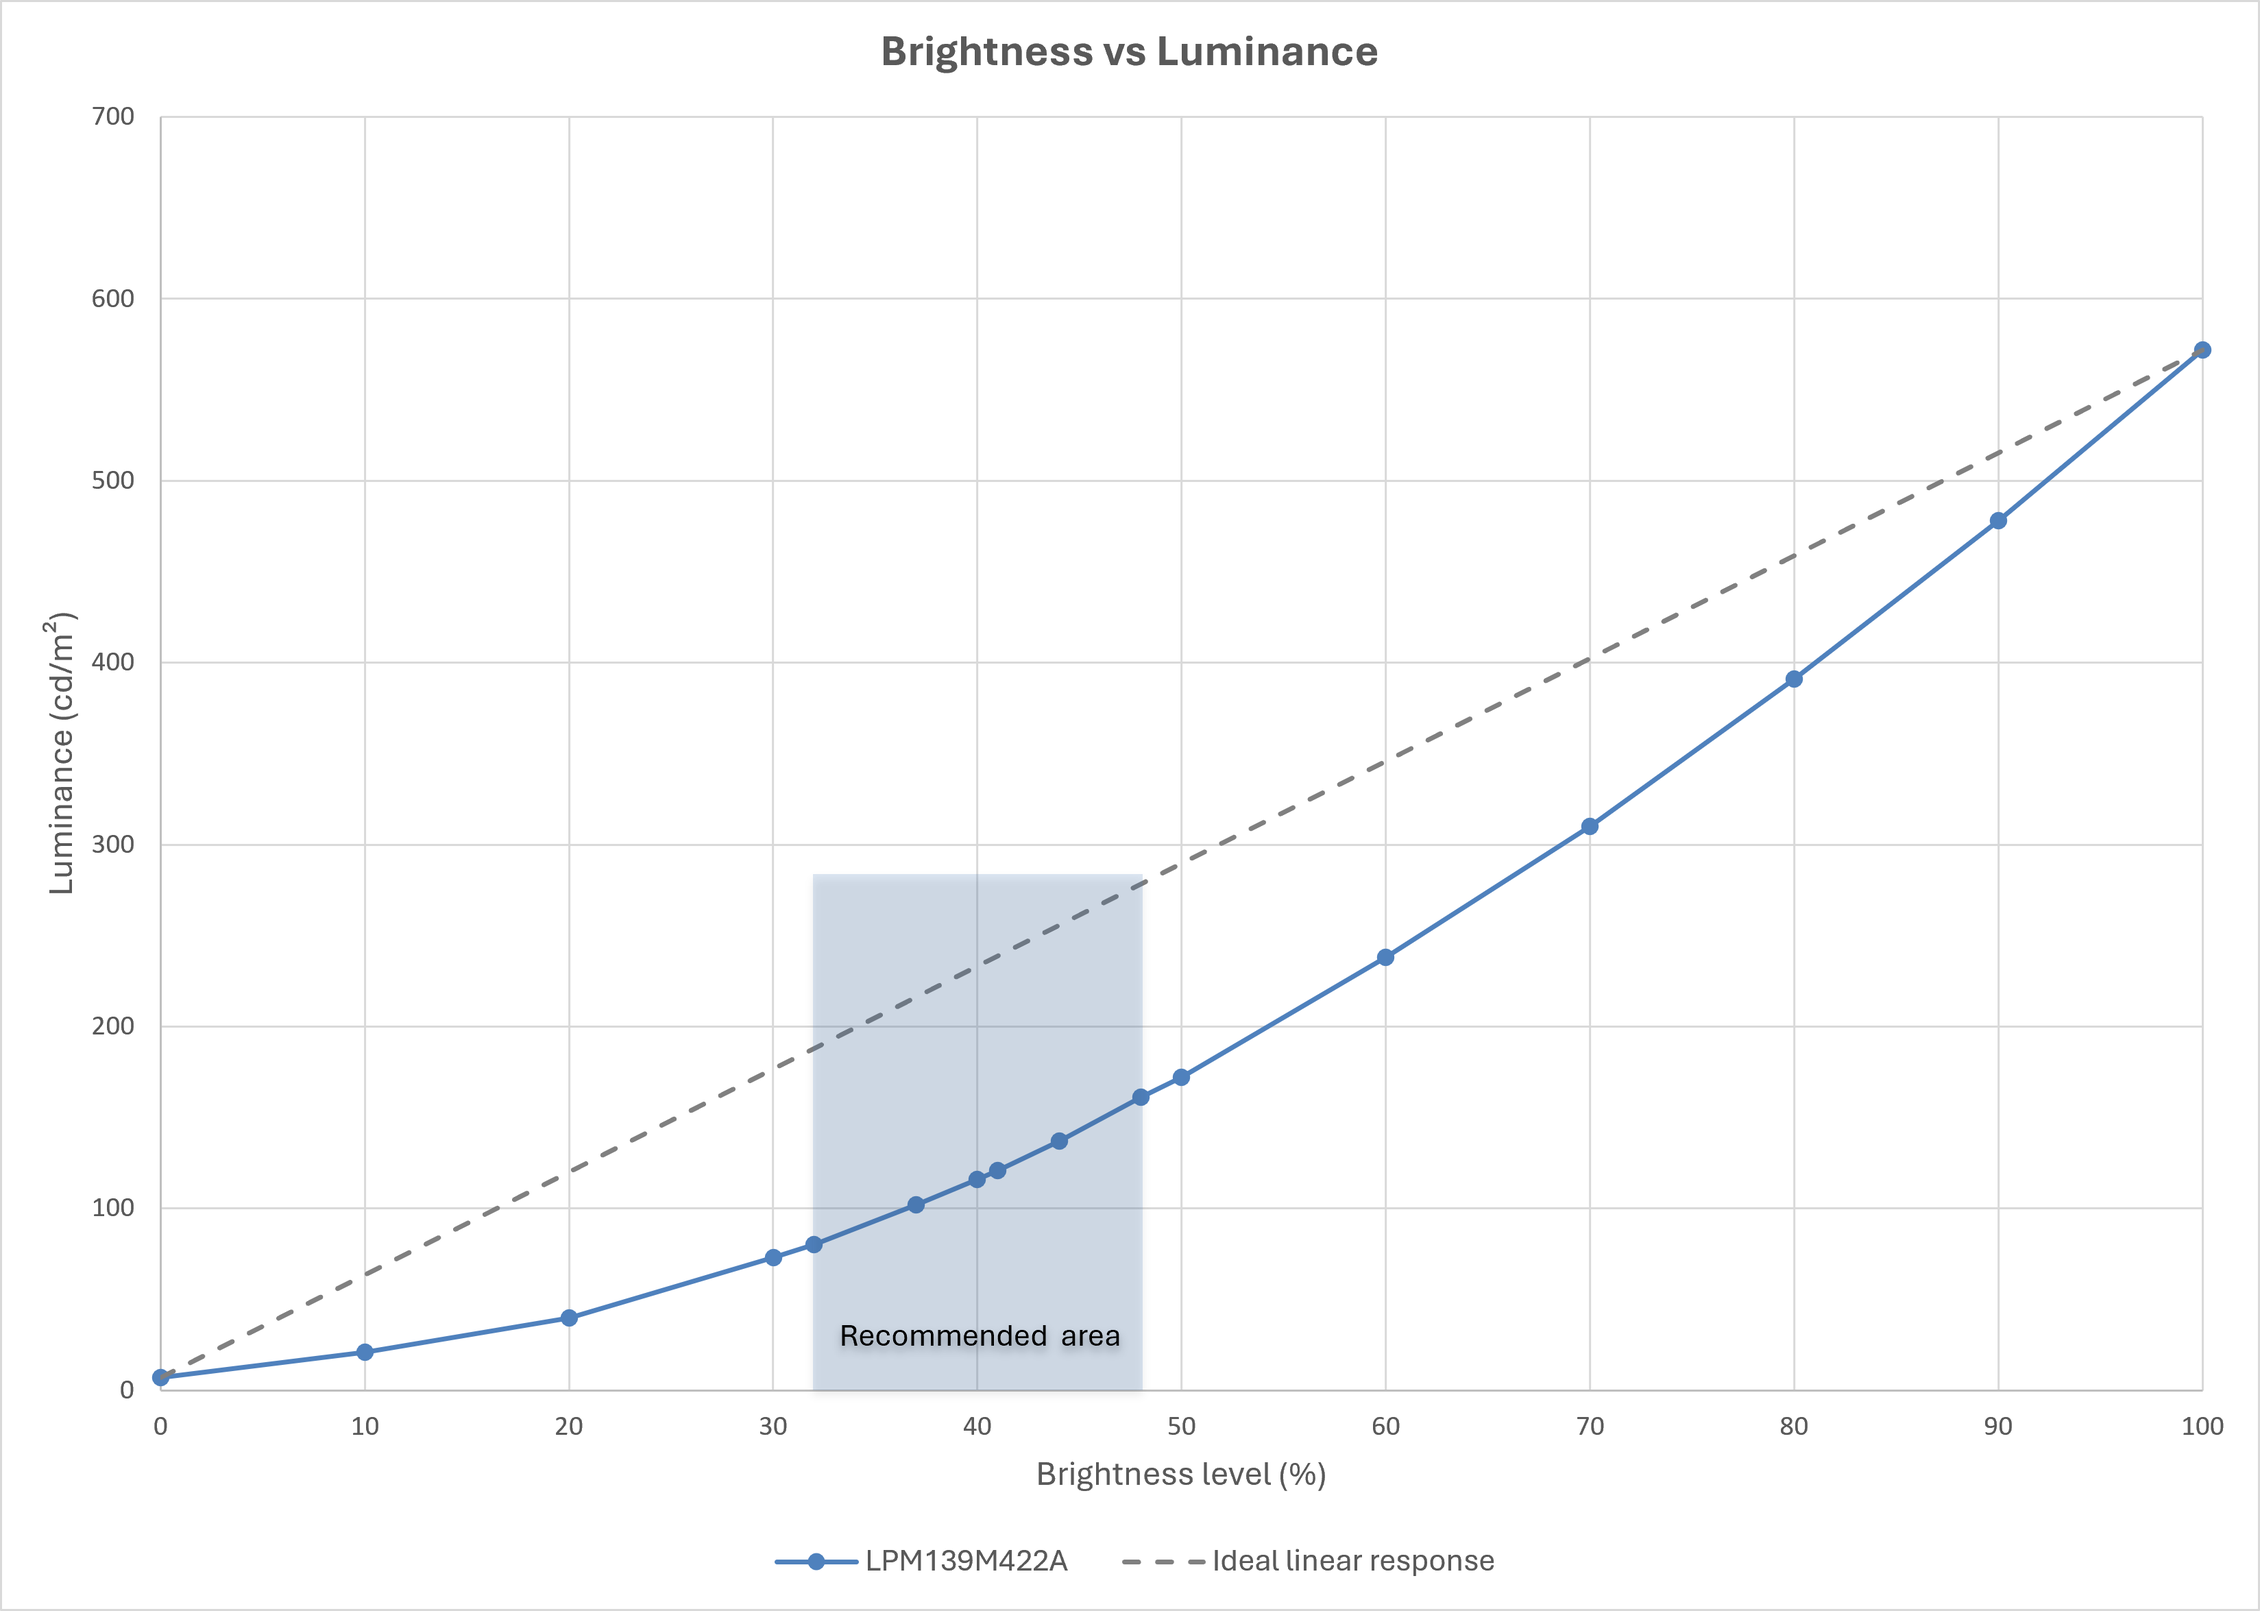
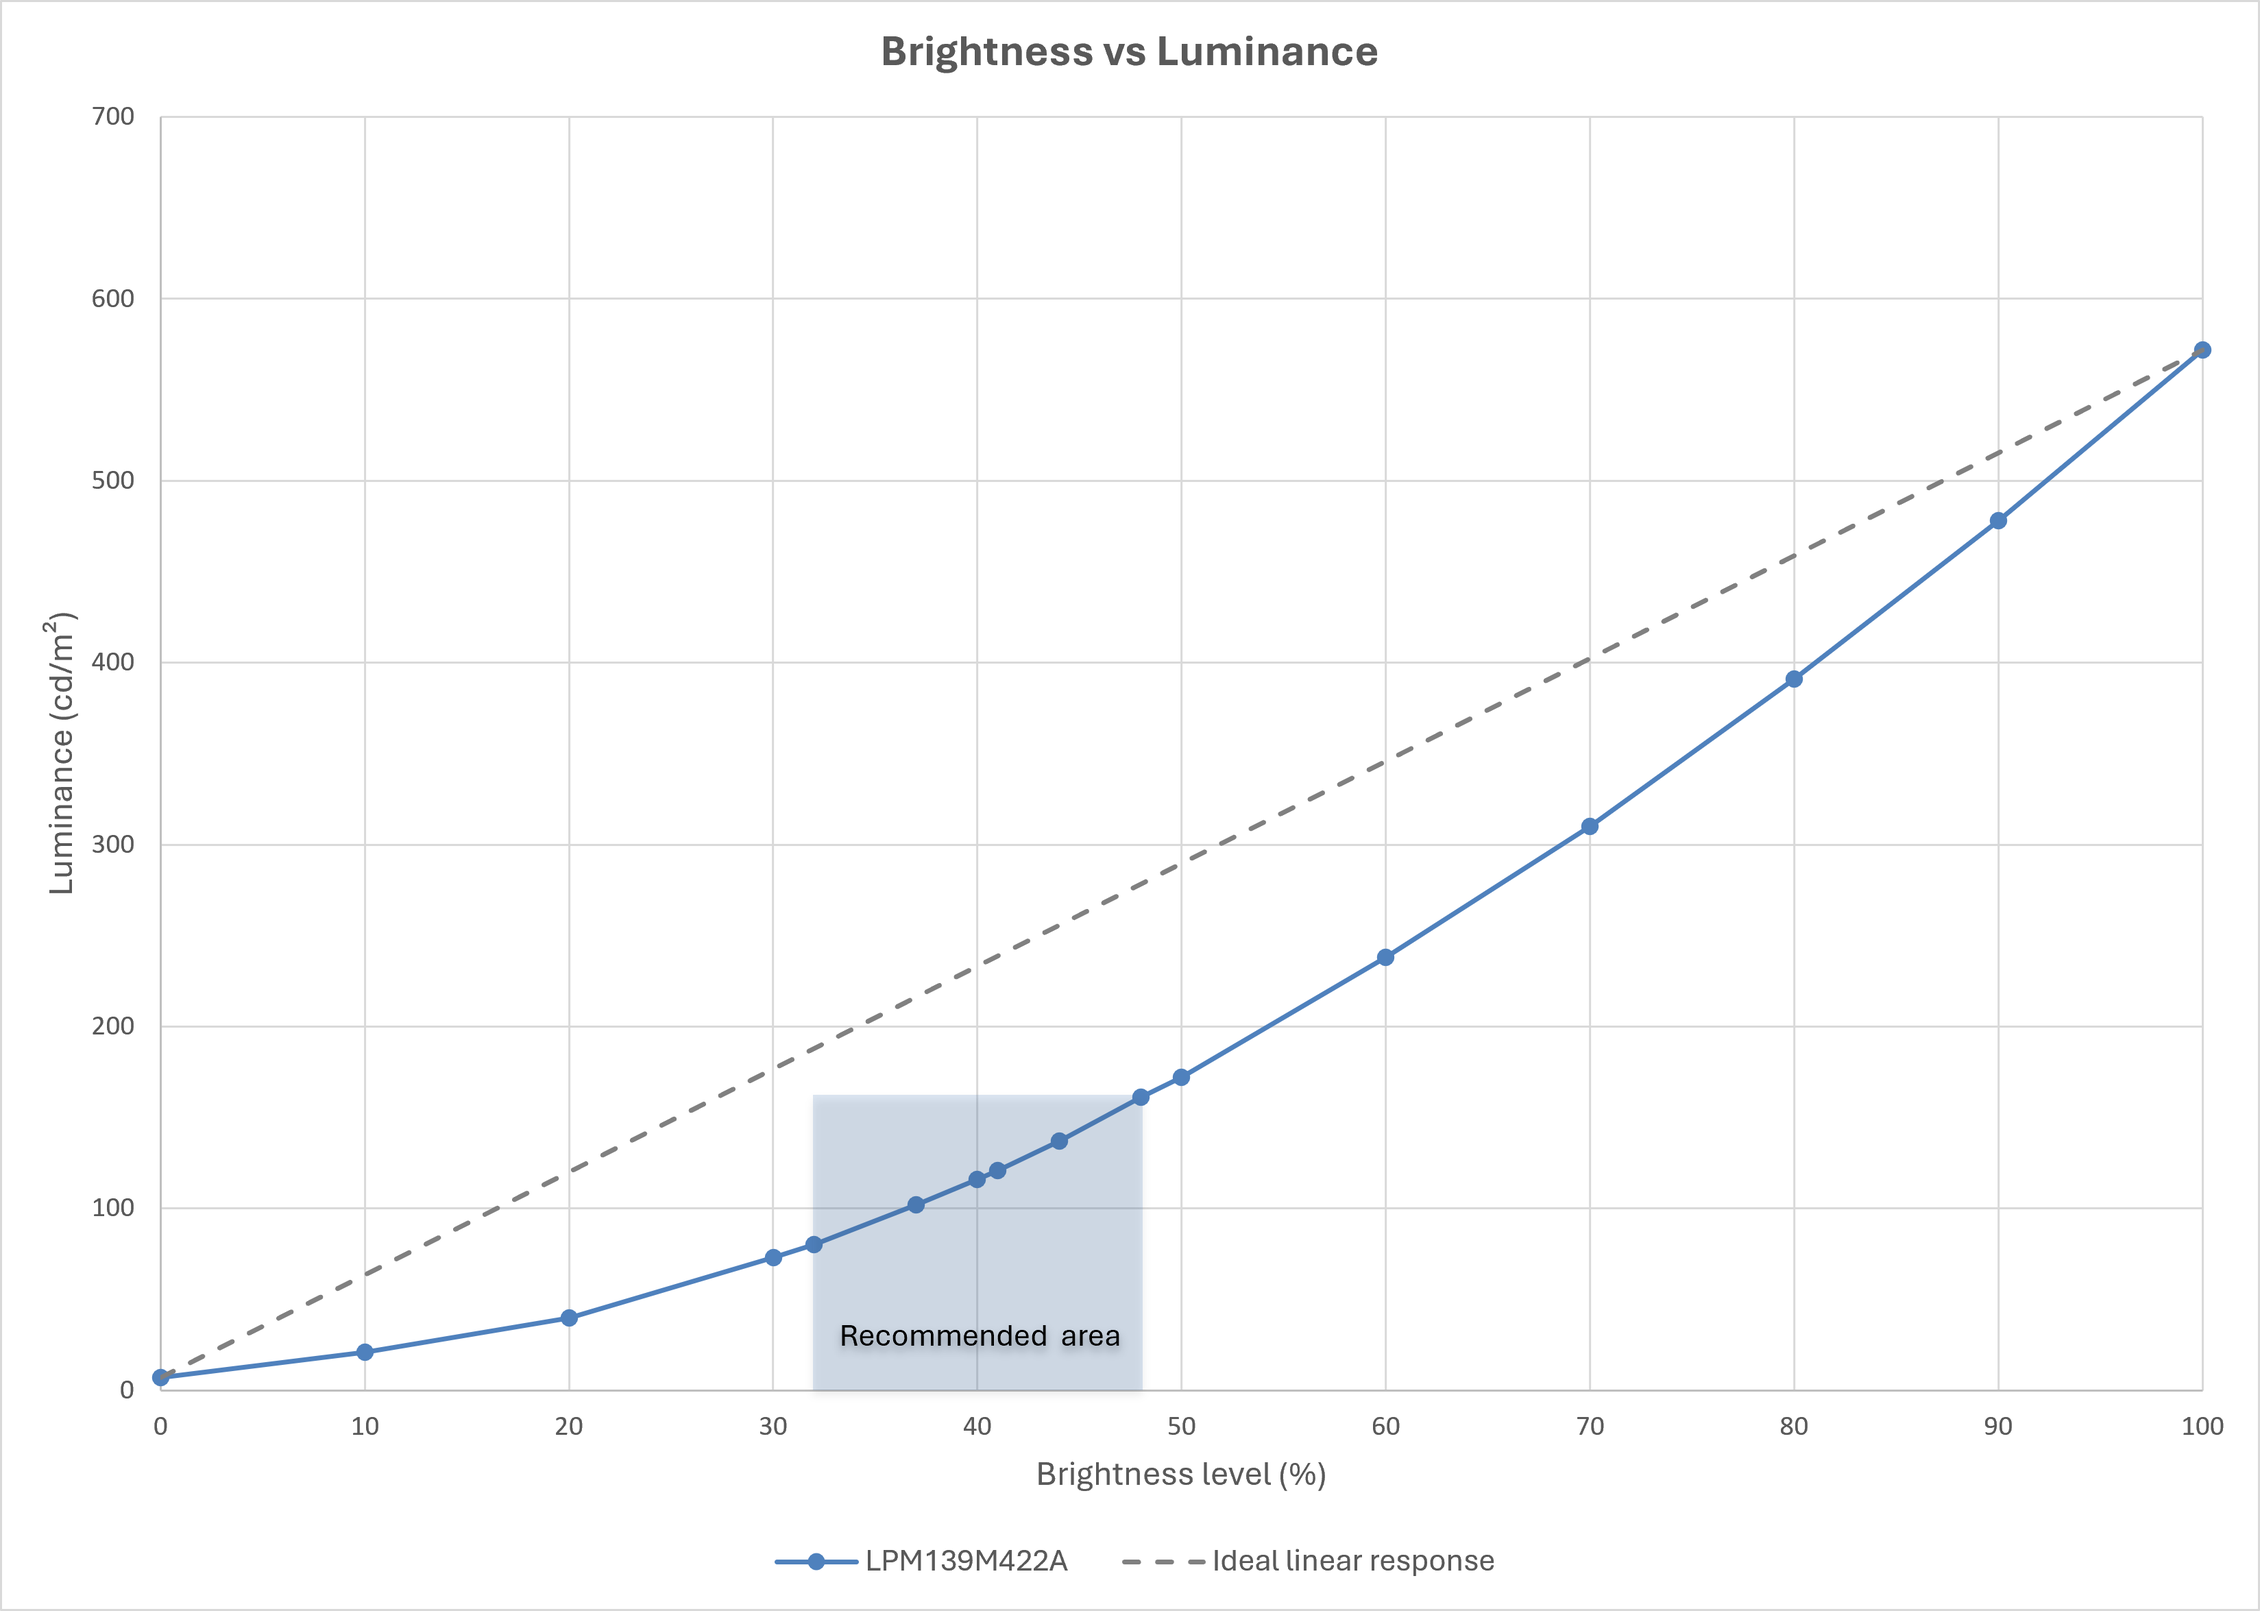
fix bugs

Changed region(s): [[0.3436, 0.5281, 0.5311, 0.6834]]

diff --git a/laptops/huawei-matebook-x-pro-2020/README.md b/laptops/huawei-matebook-x-pro-2020/README.md
@@ -18,7 +18,7 @@ Official product page:  <https://consumer.huawei.com/ie/laptops/matebook-x-pro-2
   - [Color characteristics](#color-characteristics)
 - [Calibration](#calibration)
   - [Environment and targets](#environment-and-targets)
-  - [OSD settings](#osd-settings)
+  - [OSD, system and app settings](#osd-system-and-app-settings)
 - [Downloads](#downloads)
   - [ICC/ICM profile](#iccicm-profile)
   - [Reports](#reports)

diff --git a/laptops/LAPTOP_README_TEMPLATE.md b/laptops/LAPTOP_README_TEMPLATE.md
@@ -18,7 +18,7 @@ Official product page: [URL]
   - [Color characteristics](#color-characteristics)
 - [Calibration](#calibration)
   - [Environment and targets](#environment-and-targets)
-  - [OSD settings](#osd-system-and-app-settings)
+  - [OSD, system and app settings](#osd-system-and-app-settings)
 - [Downloads](#downloads)
   - [ICC/ICM profile](#iccicm-profile)
   - [Reports](#reports)
